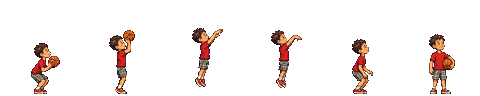
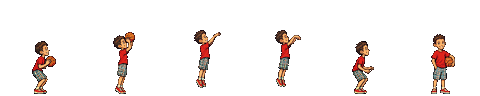
Nick originale in zoom e Leonardo basket fedele al character; build 27 nov 14:00

diff --git a/js/scena-capitolo2.js b/js/scena-capitolo2.js
@@ -13,6 +13,7 @@ const {registraScena,sfx}=M,{g,W,H,RS,R,ell,clamp,lerp,hash,mkImg,CHARS,setHint,
 window.__C2=null;const C2={ritorno:false,ponteDetto:false,ponteVisto:false,sveglio:false,specchio:false,pensato:false,visto:false,ascia:0,scavo:0,chiavi:false,tw:0};   // stato del capitolo 2
 window.__C2=C2;const sm=x=>{x=clamp(x,0,1);return x*x*(3-2*x)};
 const CUI={};const cuImg=n=>CUI[n]||(CUI[n]=mkImg('img/emb/'+n+'.png'));   // (27 nov) originali ad alta risoluzione per le inquadrature con zoom (window.CUP, vedi present() in index.html)
+const cuNick=(a,t)=>a&&a.talking?(Math.floor(t*7)%2?'cu_nick_t1':'cu_nick_t2'):'cu_nick_idle';   // Nick originale (foglio espressioni): fermo / bocca che si muove
 const pausa=s=>new Promise(r=>{let t=s*1000,l=performance.now();const iv=setInterval(()=>{const n=performance.now();if(!window.__PAUSA)t-=n-l;l=n;if(t<=0){clearInterval(iv);r()}},30)});   // (27 nov) si ferma col tasto PAUSA
 /* (13 nov) i testi di Nick stanno in basso, nello stesso riquadro del capitolo 1, con la sua voce (clip Kokoro, indice voci-r2) */
 function dn(s,p,testo,opz={}){return A.sayP(testo,true)}   // (16 nov) i testi avanzano da soli, in fretta
@@ -679,7 +680,7 @@ registraScena({
   ambiente:{stanza:0,vento:.25,pioggia:0,fuoco:0},
   suggerimento:'',senzaEtichette:true,
   aggiorna(s,dt){const m=s.attori['michael-jackson'];if(m)m.visibile=false;TRI.t+=dt;
-    window.CUP=[];if(window.__ZC&&window.__ZC.k>1.02){const gz=s.attori.graziano,pl=s.giocatore;for(const [a,im] of [[gz,'cu_graziano'],[pl,'cu_nick']]){if(!a)continue;a.visibile=false;window.CUP.push({img:cuImg(im),x:a.x,y:a.y,h:a.altezza()*.97,dy:a.talking?Math.sin(TRI.t*16)*.2:0})}}   // zoom: Graziano e Nick originali in alta risoluzione
+    window.CUP=[];if(window.__ZC&&window.__ZC.k>1.02){const gz=s.attori.graziano,pl=s.giocatore;for(const [a,im] of [[gz,'cu_graziano'],[pl,'cu_nick']]){if(!a)continue;a.visibile=false;window.CUP.push({img:cuImg(im==='cu_nick'?cuNick(a,TRI.t):im),x:a.x,y:a.y,h:a.altezza()*.97,dy:a.talking?Math.sin(TRI.t*16)*.2:0})}}   // zoom: Graziano e Nick originali in alta risoluzione
 
     if(TRI.mu===0&&TRI.musica&&A.AU&&A.AU.ctx){TRI.mu=1;loopAvvia('audio/musica/billie_jean_loop.mp3',.5).then(ok=>{TRI.mu=ok?2:0})}   // la musica parte appena l'audio e' sbloccato dal primo tocco
     if(TRI.furia>0)TRI.furia=Math.max(0,TRI.furia-dt);
@@ -801,7 +802,7 @@ function bkPalla(t,lx,ly){   // posizione logica della palla (Leonardo guarda a 
   if(t<1.75){const k=(t-1.45)/.3;return [R[0]+Math.sin(k*9)*.35,R[1]+k*8]}                                       // attraversa la retina
   if(t<2.05){const k=(t-1.75)/.3;return [R[0],R[1]+8+(86-R[1]-8)*k*k]}                                           // cade a terra
   const u=(t-2.05)/1.05,x=43+(lx-3.5-43)*u,fl=86+(ly-86)*u,w=Math.abs(Math.sin(u*Math.PI*3))*15*(1-u);          // rimbalza due volte verso di lui
-  const h=mano(14,33),m=Math.max(0,(u-.85)/.15);return [x,(fl-w)*(1-m)+h[1]*m]}
+  const h=mano(11,33),m=Math.max(0,(u-.85)/.15);return [x,(fl-w)*(1-m)+h[1]*m]}
 const BK_BG=mkImg('img/scene/firenze-giardino-basket.png');
 function bkRete(gg,t){   // la rete (13x14 px dello sfondo = 6,5x7 logici in (40,48)) oscilla dopo il passaggio della palla
   if(t<1.5||t>2.9||!(BK_BG.complete&&BK_BG.naturalWidth))return;const a=(t-1.5),amp=(1.3*Math.exp(-a*2.2))*Math.sin(a*21),bul=(t<1.8?Math.sin((t-1.5)/.3*Math.PI)*.9:0);
@@ -830,7 +831,7 @@ registraScena({
       p.dir='W';await p.vaiA(BK.LX+14,BK.LY+3,false,'W');BK.stop=true;                                               // Nick va da Leonardo, che continua a tirare
       while(!BK.fine)await pausa(.1);zoomCam(3.2,(BK.LX+BK.LX+14)/2,BK.LY-13,1.4);await pausa(2.6);A.setHint('CONTINUA…',true)})},
   aggiorna(s,dt){BK.t+=dt;const L=s.attori.leonardo;if(L)L.visibile=false;
-    window.CUP=[];BK.zoom=!!(window.__ZC&&window.__ZC.k>1.02&&BK.fine);if(BK.zoom){const pl=s.giocatore;if(pl){pl.visibile=false;window.CUP.push({img:cuImg('cu_leonardo_palla'),x:BK.LX,y:BK.LY,h:15.8},{img:cuImg('cu_nick'),x:pl.x,y:pl.y,h:pl.altezza()*.97,dy:pl.talking?Math.sin(BK.t*16)*.2:0})}}
+    window.CUP=[];BK.zoom=!!(window.__ZC&&window.__ZC.k>1.02&&BK.fine);if(BK.zoom){const pl=s.giocatore;if(pl){pl.visibile=false;window.CUP.push({img:cuImg('cu_leonardo_palla'),x:BK.LX,y:BK.LY,h:15.8},{img:cuImg(cuNick(pl,BK.t)),x:pl.x,y:pl.y,h:pl.altezza()*.97,dy:pl.talking?Math.sin(BK.t*16)*.2:0})}}
 
     if(!BK.fine){const n=Math.floor(BK.t/BK_CIC);if(n>BK.cic){BK.cic=n;if(BK.stop)BK.fine=true}}},
   sopra(gg,s){if(!BK.IMG.complete||!BK.IMG.naturalWidth)return;const LX=BK.LX,LY=BK.LY,W=20,H=24;gg.save();gg.imageSmoothingEnabled=false;

diff --git a/index.html b/index.html
@@ -10,7 +10,7 @@
 <meta name="theme-color" content="#000000">
 <script>/* (12 nov) pulizia: a ogni versione nuova si tolgono service worker e memoria vecchi e si ricarica una volta.
    Un service worker rimasto da versioni precedenti serviva script e indice delle voci superati (le voci non si sentivano). BUILD0 lo aggiorna pubblica.py. */
-(function(){var BUILD0='27 nov 12:30';try{if(!('serviceWorker' in navigator)||localStorage.getItem('mistero-build')===BUILD0)return;localStorage.setItem('mistero-build',BUILD0);window.__pulizia=1;
+(function(){var BUILD0='27 nov 14:00';try{if(!('serviceWorker' in navigator)||localStorage.getItem('mistero-build')===BUILD0)return;localStorage.setItem('mistero-build',BUILD0);window.__pulizia=1;
  var t=setTimeout(function(){location.reload()},4000);
  Promise.all([navigator.serviceWorker.getRegistrations().then(function(rs){return Promise.all(rs.map(function(r){return r.unregister()}))}),
    window.caches?caches.keys().then(function(ks){return Promise.all(ks.map(function(k){return caches.delete(k)}))}):0]).then(function(){clearTimeout(t);location.reload()},function(){clearTimeout(t);location.reload()})}catch(e){}})();</script>
@@ -81,11 +81,11 @@ button:active{background:#1a2438;transform:translate(1px,1px)}
 <div id="probe" style="position:fixed;visibility:hidden;pointer-events:none;padding:env(safe-area-inset-top) env(safe-area-inset-right) env(safe-area-inset-bottom) env(safe-area-inset-left)"></div>
 <div id="rot"><i></i><div>RUOTA IL TELEFONO<br>IN ORIZZONTALE</div></div>
 
-<script src="js/motore.js?v=27nov1230"></script>
-<script src="js/scena-demo.js?v=27nov1230"></script>
-<script src="js/scena-tutti.js?v=27nov1230"></script>
-<script src="js/scena-ramones.js?v=27nov1230"></script>
-<script src="js/scena-capitolo2.js?v=27nov1230"></script>
+<script src="js/motore.js?v=27nov1400"></script>
+<script src="js/scena-demo.js?v=27nov1400"></script>
+<script src="js/scena-tutti.js?v=27nov1400"></script>
+<script src="js/scena-ramones.js?v=27nov1400"></script>
+<script src="js/scena-capitolo2.js?v=27nov1400"></script>
 <script>
 (()=>{
 "use strict";
@@ -2184,7 +2184,7 @@ document.addEventListener('wheel',e=>{if(e.ctrlKey)e.preventDefault()},{passive:
 document.addEventListener('visibilitychange',()=>{if(document.hidden){if(SILENT_EL)SILENT_EL.pause()}else if(AU.ctx)unmuteSilentSwitch();if(AU.ctx){if(document.hidden)AU.ctx.suspend();else AU.ctx.resume()}});
 
 /* aggiornamento automatico: se sul server c'e' una versione piu' nuova di questa, ricarica una volta (cancella anche le copie salvate) */
-const BUILD='27 nov 12:30';
+const BUILD='27 nov 14:00';
 {const ve=document.getElementById('ver');if(ve)ve.textContent='v. '+BUILD;
  if(location.protocol.startsWith('http')){
   fetch(location.pathname+'?nc='+Date.now(),{cache:'no-store'}).then(r=>r.ok?r.text():'').then(t=>{

diff --git a/sw.js b/sw.js
@@ -1,7 +1,7 @@
 // Service worker: il gioco funziona offline.
 // - i file del gioco (immagini, audio, icone) sono salvati alla prima apertura (sempre scaricati freschi: cache reload) e serviti dalla memoria del telefono;
 // - la pagina, gli script (.js), gli indici (.json) e questo file si chiedono prima alla rete (cosi' gli aggiornamenti arrivano subito) e, senza rete, si usa la copia salvata.
-const VERSION = "27 nov 12:30";
+const VERSION = "27 nov 14:00";
 const CACHE = "mistero-" + VERSION;
 const FILES = [
   "./",
@@ -638,6 +638,9 @@ const FILES = [
   "img/emb/cu_leonardo.png",
   "img/emb/cu_leonardo_palla.png",
   "img/emb/cu_nick.png",
+  "img/emb/cu_nick_idle.png",
+  "img/emb/cu_nick_t1.png",
+  "img/emb/cu_nick_t2.png",
   "img/emb/dan_biglietto_r2.png",
   "img/emb/doc_attrezzo_r1.png",
   "img/emb/doc_fusibile_r1.png",
